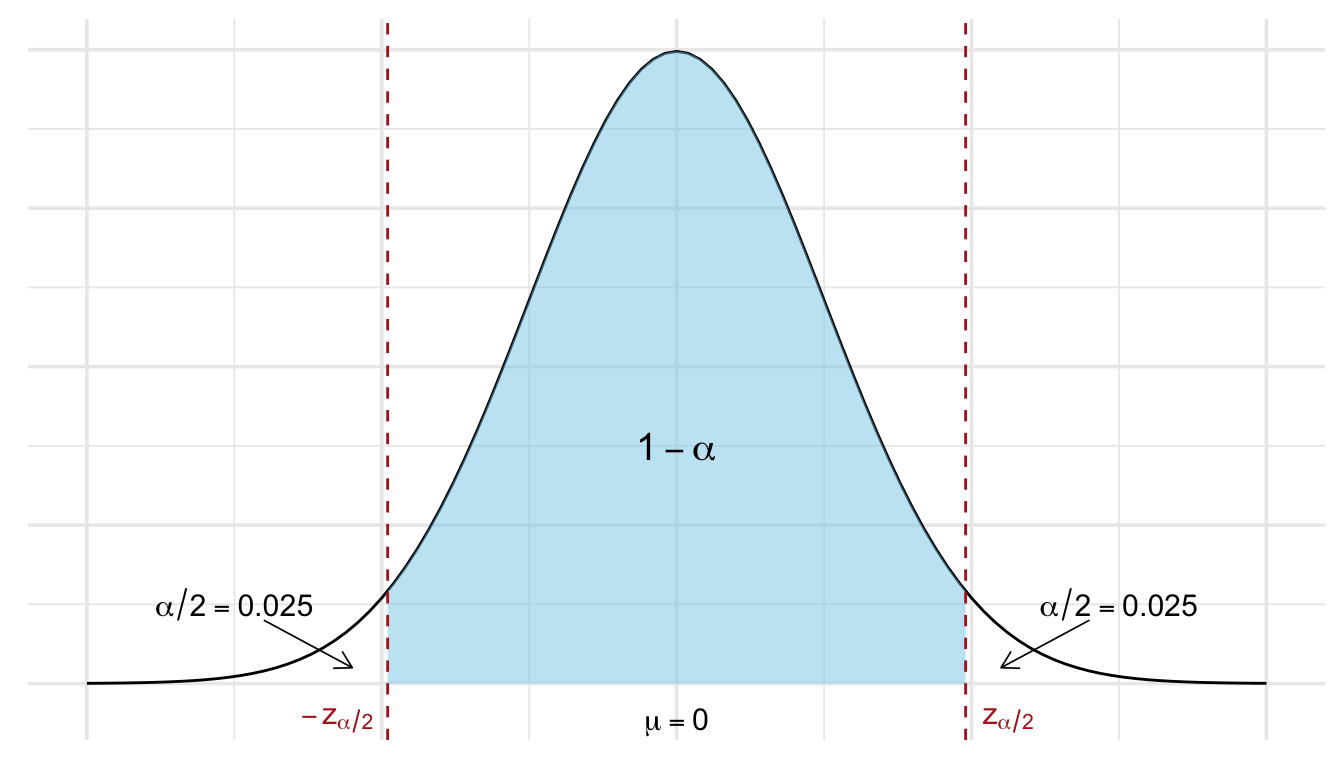
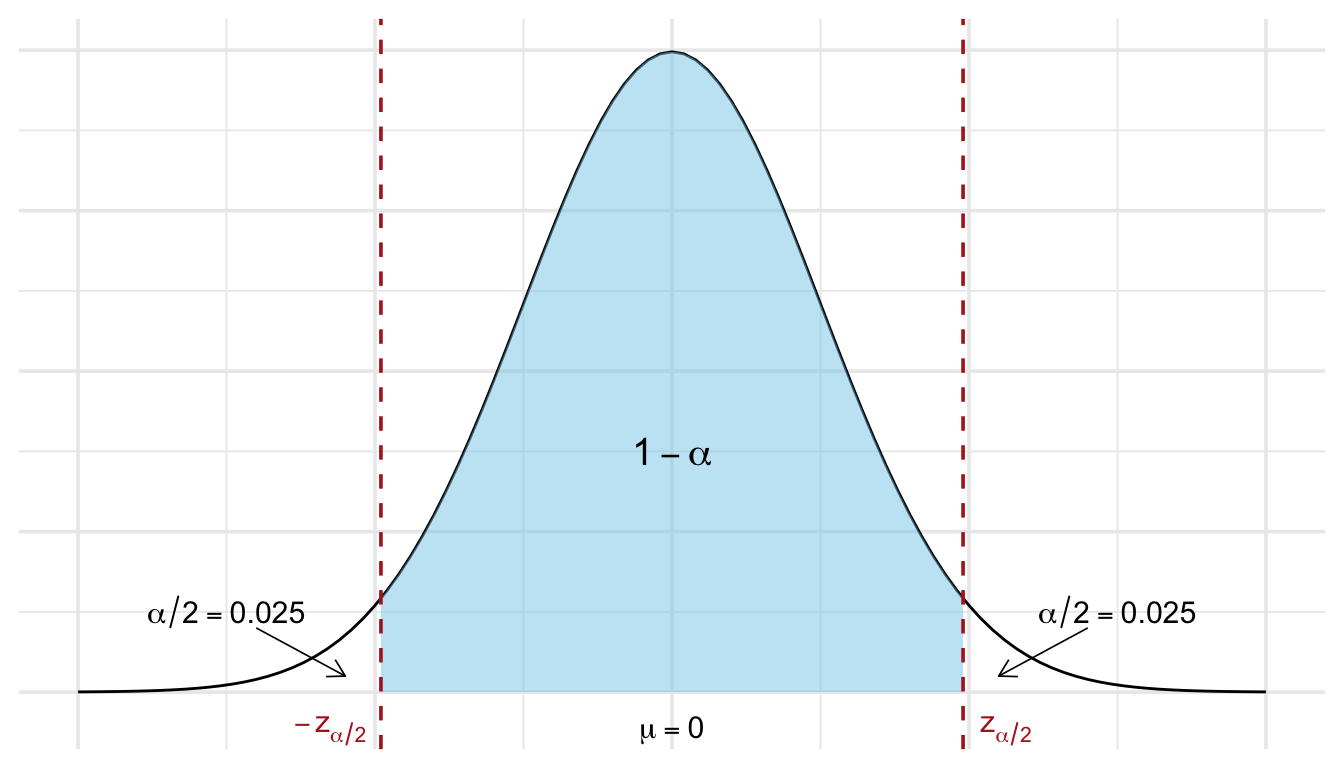
corrections

diff --git a/docs/inferential/estimation.html b/docs/inferential/estimation.html
@@ -732,7 +732,7 @@ Table&nbsp;21.1: Commonly used confidence levels and their corresponding critica
 <figure class="quarto-float quarto-float-fig figure"><div aria-describedby="fig-cfi-2-caption-0ceaefa1-69ba-4598-a22c-09a6ac19f8ca">
 <div class="cell" data-layout-align="center">
 <div class="cell-output-display">
-<div id="fig-confidence-interval" class="quarto-float quarto-figure quarto-figure-center anchored" width="672" data-fig-align="center">
+<div id="fig-confidence-interval" class="quarto-float quarto-figure quarto-figure-center anchored" data-fig-align="center" width="672">
 <figure class="quarto-float quarto-subfloat-fig figure"><div aria-describedby="fig-confidence-interval-caption-0ceaefa1-69ba-4598-a22c-09a6ac19f8ca">
 <img src="estimation_files/figure-html/fig-confidence-interval-1.png" id="fig-confidence-interval" class="img-fluid quarto-figure quarto-figure-center anchored figure-img" data-ref-parent="fig-cfi-2" width="672">
 </div>
@@ -2005,14 +2005,24 @@ Solution
 \\ &amp; = \sqrt{0.934 + 1.96} = \sqrt{2.894} \approx 1.702
 \end{split}
 \]</span></p>
-<p>We find the correct degrees of freedom using Welch-Satterthwaite approximation: <span class="math display">\[
-\nu \approx \frac{ \left( \frac{s_1^2}{n_1} + \frac{s_2^2}{n_2} \right)^2 }
-{ \frac{ \left( \frac{s_1^2}{n_1} \right)^2 }{n_1 - 1} + \frac{ \left( \frac{s_2^2}{n_2} \right)^2 }{n_2 - 1} }
-= \frac{(0.934 + 1.96)^2}{\frac{0.934^2}{17} + \frac{1.96^2}{15}} \approx \frac{8.38}{0.0513 + 0.256} \approx 25.1
-\]</span> Thus, we use <span class="math inline">\(t_{25} \approx 2.060\)</span> for 95% confidence. The confidence interval is then given by <span class="math display">\[
--3.5 \pm 2.060 \cdot 1.702 = -3.5 \pm 3.508
-\implies [-7.01,\ 0.01]
-\]</span> The 95% confidence interval for the difference in study hours ranges from −7.01 to 0.01 hours. Since the interval includes zero, we cannot conclude that there is a difference in average study hours between the two majors.</p>
+<p>We find the correct degrees of freedom using Welch-Satterthwaite approximation:</p>
+<p><span class="math display">\[
+\nu \approx
+\frac{\left(\dfrac{s_1^2}{n_1}+\dfrac{s_2^2}{n_2}\right)^2}
+{\dfrac{\left(\dfrac{s_1^2}{n_1}\right)^2}{n_1-1}
++\dfrac{\left(\dfrac{s_2^2}{n_2}\right)^2}{n_2-1}}
+=
+\frac{(0.934+1.96)^2}
+{\dfrac{0.934^2}{17}+\dfrac{1.96^2}{15}}
+\approx
+\frac{8.38}{0.0513+0.256}
+\approx
+27.2.
+\]</span> Thus, we use <span class="math inline">\(t_{27} \approx 2.052\)</span> for 95% confidence. The confidence interval is then given by <span class="math display">\[
+-3.5 \pm 2.052 \cdot 1.702
+= -3.5 \pm 3.49
+\implies [-6.99,\,-0.01].
+\]</span> The 95% confidence interval for the difference in study hours ranges from −6.99 to −0.01 hours. Because the interval does not include zero, there is evidence of a significant difference in average study hours between the two majors.</p>
 </div>
 </div>
 </div>
